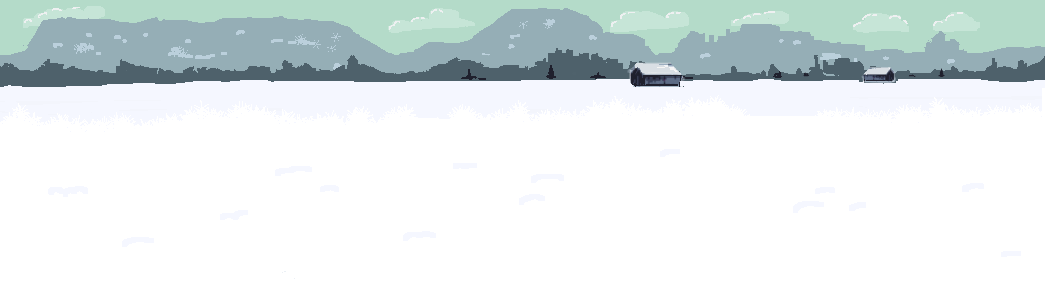
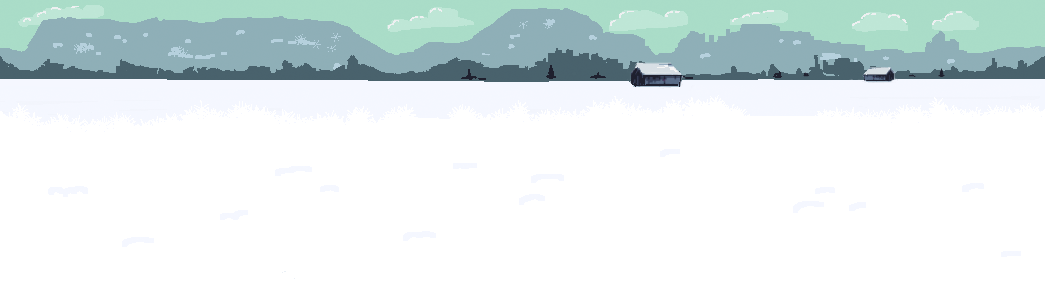
new background assets

diff --git a/src/scenes/Game.ts b/src/scenes/Game.ts
@@ -26,7 +26,8 @@ export default class SkiFreeScene extends Phaser.Scene {
 
   private bg_snow?: Phaser.GameObjects.TileSprite;
   private bg_sky?: Phaser.GameObjects.TileSprite;
-  private bg_mtn?: Phaser.GameObjects.TileSprite;
+  private bg_mtnnear?: Phaser.GameObjects.TileSprite;
+  private bg_mtnfar?: Phaser.GameObjects.TileSprite;
 
   public staticObstacles?: Phaser.Physics.Arcade.Group;
   public dynamicObstacles?: Phaser.Physics.Arcade.Group;
@@ -37,6 +38,7 @@ export default class SkiFreeScene extends Phaser.Scene {
     this.gameVelocity = START_GAME_VELOCITY;
     this.ticks = 0;
     (player as Phaser.Types.Physics.Arcade.SpriteWithDynamicBody).setTint(0xff0000);
+    (obstacle as Phaser.Types.Physics.Arcade.SpriteWithDynamicBody).setTint(0xff0000);
     this.time.addEvent({
       delay: 1000,
       loop: false,
@@ -46,7 +48,7 @@ export default class SkiFreeScene extends Phaser.Scene {
     })
   }
 
-  private worldToTileUnit = (worldUnit: number) => worldUnit / 120;
+  private worldToTileUnit = (worldUnit: number) => worldUnit / 60;
 
   public getSizeWithPerspective = (yPosition: number, baseSize: number) => (baseSize * 0.3 * yPosition / this.canvas.height) + (baseSize * 0.7);
 
@@ -55,7 +57,8 @@ export default class SkiFreeScene extends Phaser.Scene {
   preload() {
     this.scale.refresh();
     this.canvas = this.game.canvas;
-    this.load.image('bg_mtn', 'assets/bg_mtn.png')
+    this.load.image('bg_mtnfar', 'assets/bg_mtnfar.png')
+    this.load.image('bg_mtnnear', 'assets/bg_mtnnear.png')
     this.load.image('bg_sky', 'assets/bg_sky.png')
     this.load.image('bg_snow', 'assets/bg_snow.png')
     this.load.image(HOUSE, 'assets/house.png');
@@ -83,12 +86,13 @@ export default class SkiFreeScene extends Phaser.Scene {
     this.gameOver = false;
     this.bg_sky = this.add.tileSprite(0, 0, this.canvas.width, SCREEN_HEIGHT, "bg_sky")
       .setOrigin(0)
-    this.bg_mtn = this.add.tileSprite(0, 0, this.canvas.width, SCREEN_HEIGHT, "bg_mtn")
+    this.bg_mtnfar = this.add.tileSprite(0, 0, this.canvas.width, SCREEN_HEIGHT, "bg_mtnfar")
+      .setOrigin(0)
+    this.bg_mtnnear = this.add.tileSprite(0, 0, this.canvas.width, SCREEN_HEIGHT, "bg_mtnnear")
       .setOrigin(0)
     this.bg_snow = this.add.tileSprite(0, 0, this.canvas.width, SCREEN_HEIGHT, "bg_snow")
       .setOrigin(0)
 
-    console.log(this.bg_sky, this.bg_mtn, this.bg_snow)
     this.player = new Player(this, 100, 450, SKIER);
     this.spawner = new Spawner(this);
 
@@ -145,8 +149,9 @@ export default class SkiFreeScene extends Phaser.Scene {
       this.ticks++;
       this.gameVelocity -= 0.1;
       this.bg_snow && (this.bg_snow.tilePositionX -= this.worldToTileUnit(this.gameVelocity));
-      this.bg_mtn && (this.bg_mtn.tilePositionX -= this.worldToTileUnit(0.9 * this.gameVelocity));
-      this.bg_sky && (this.bg_sky.tilePositionX -= this.worldToTileUnit(0.6 * this.gameVelocity));
+      this.bg_mtnnear && (this.bg_mtnnear.tilePositionX -= this.worldToTileUnit(0.9 * this.gameVelocity));
+      this.bg_mtnfar && (this.bg_mtnfar.tilePositionX -= this.worldToTileUnit(0.7 * this.gameVelocity));
+      this.bg_sky && (this.bg_sky.tilePositionX -= this.worldToTileUnit(0.5 * this.gameVelocity));
       const score = Math.floor(this.ticks / 10);
       this.registry.get('scoreText').setText('Score: ' + score);
     }
